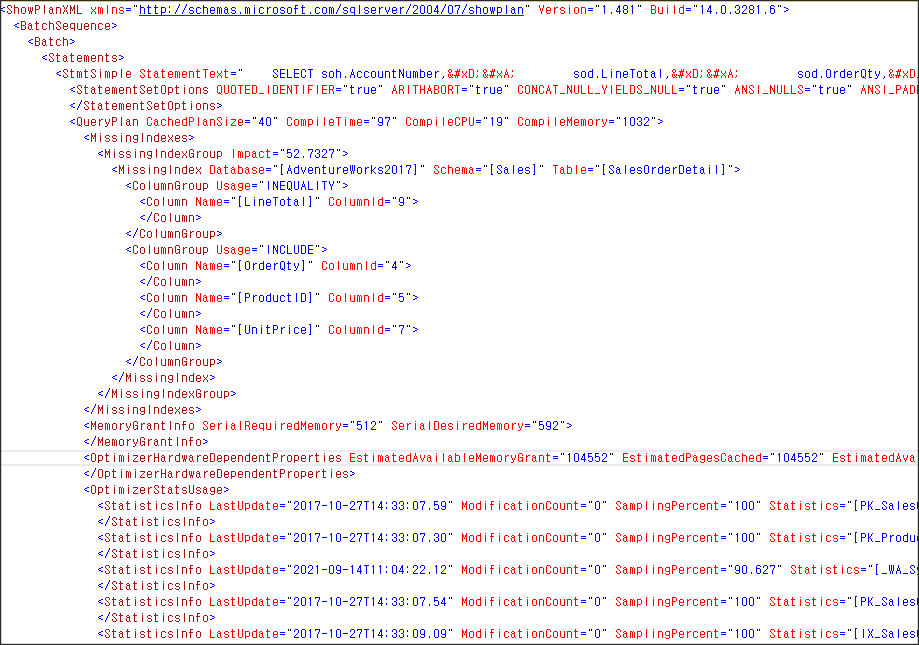
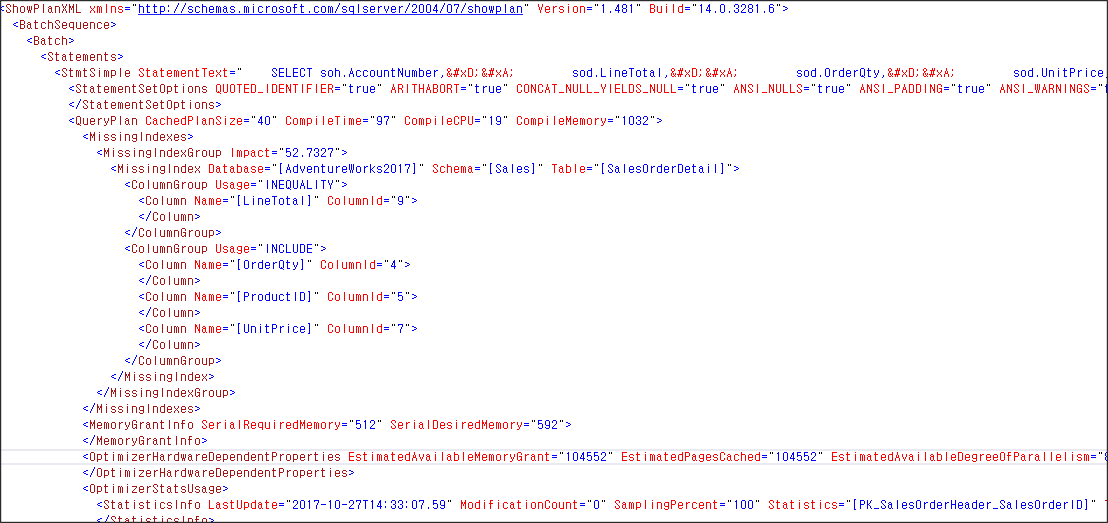
수정

diff --git a/MainContent/AnalyzingQueryPerformance.md b/MainContent/AnalyzingQueryPerformance.md
@@ -252,7 +252,7 @@ GO
 SET SHOWPLAN_XML OFF;
 GO
 ```
-![XE시작화면](image/09/ExecPlan01_Xml.png){: width="70%"}  
+![XE시작화면](image/09/ExecPlan01_Xml.png){: width="80%"}  
 
 - ### a. 쿼리 실행계획 분석
     쿼리를 선택하고 Ctrl + L 을 누르면 예상실행계획이 나온다. 
